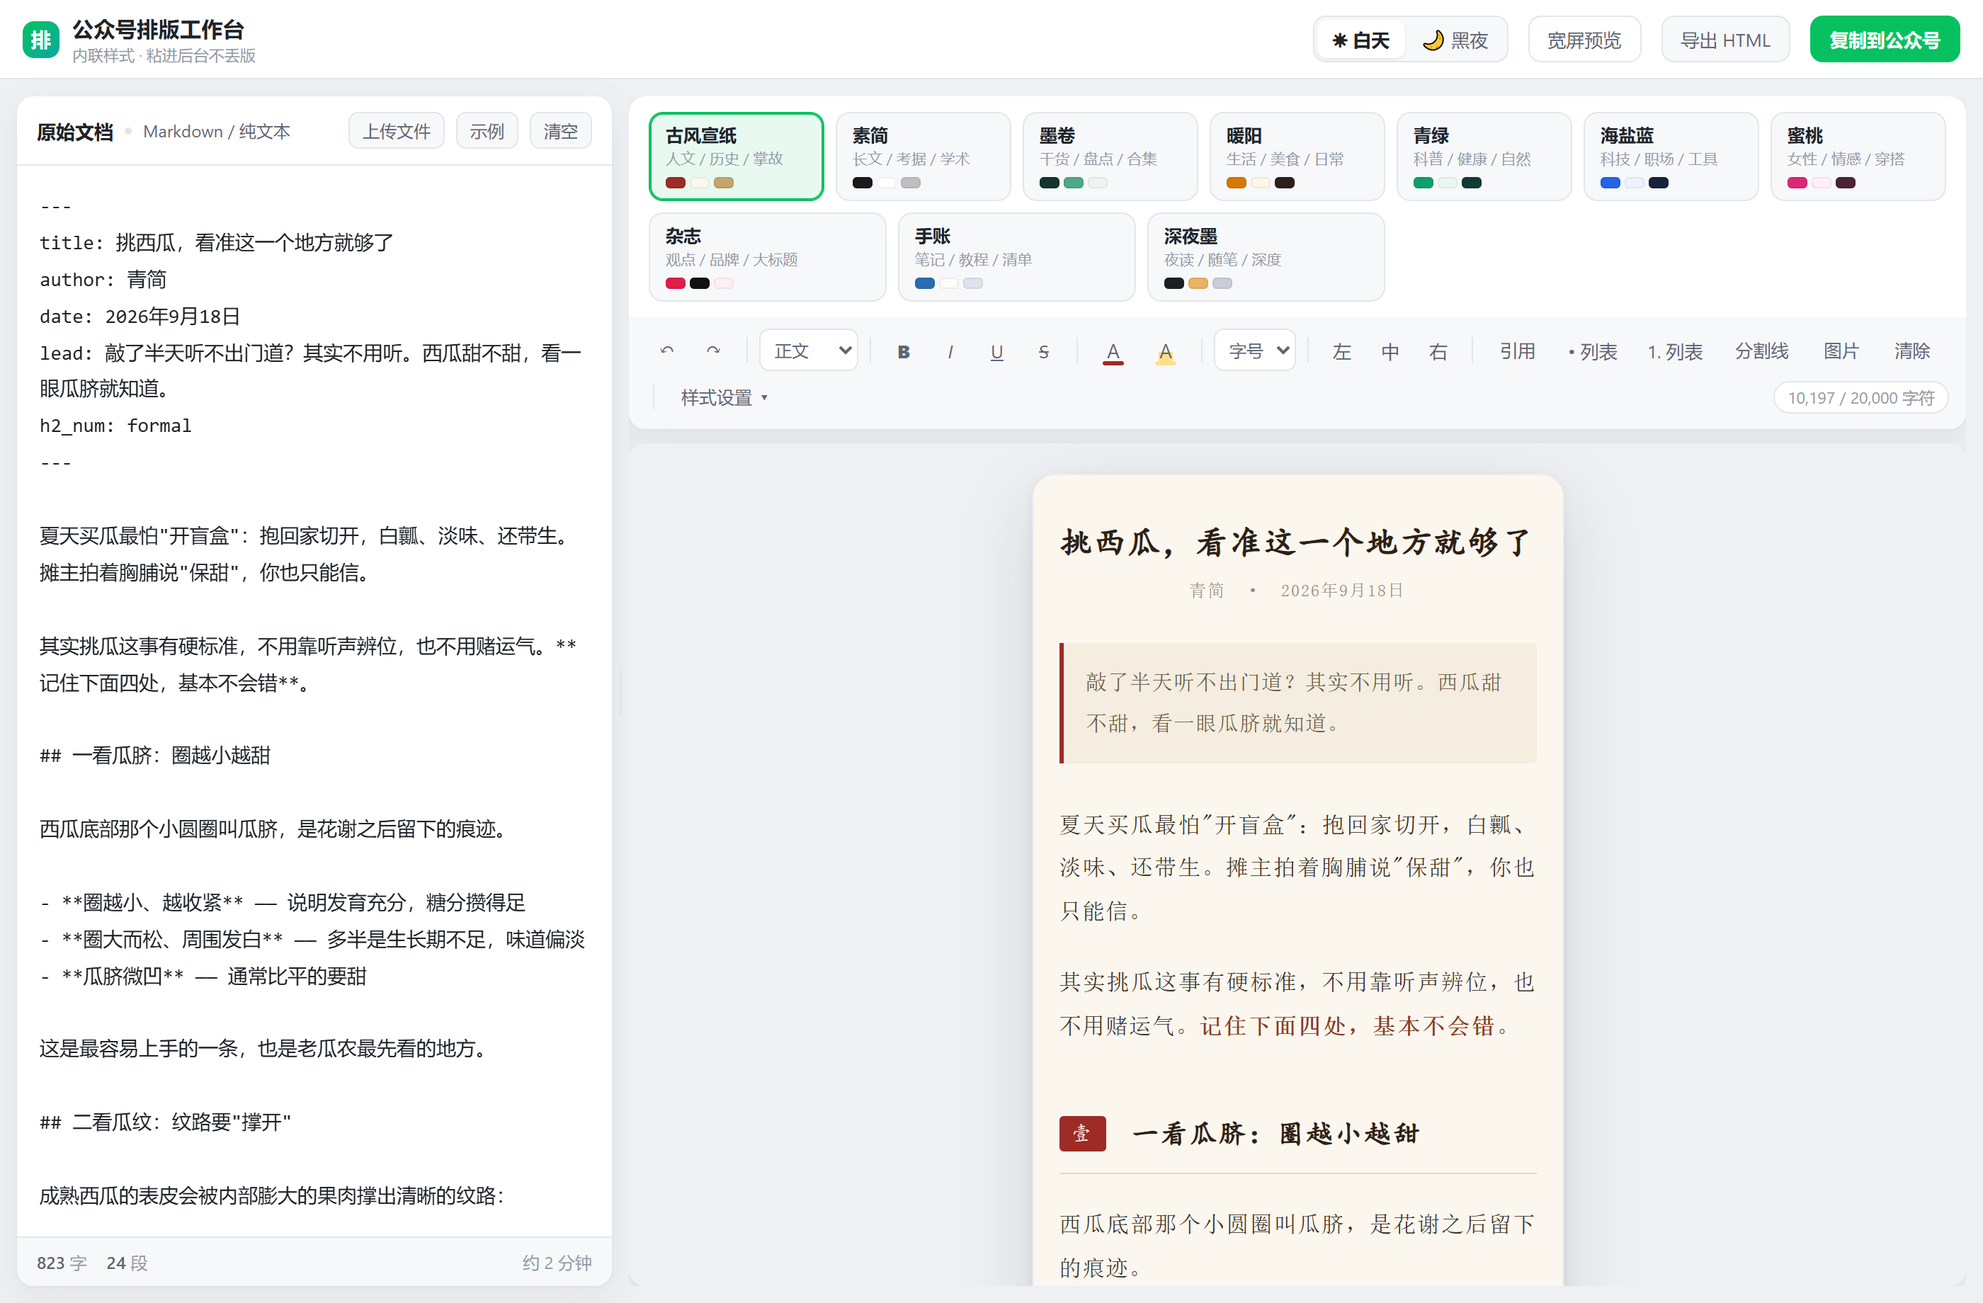
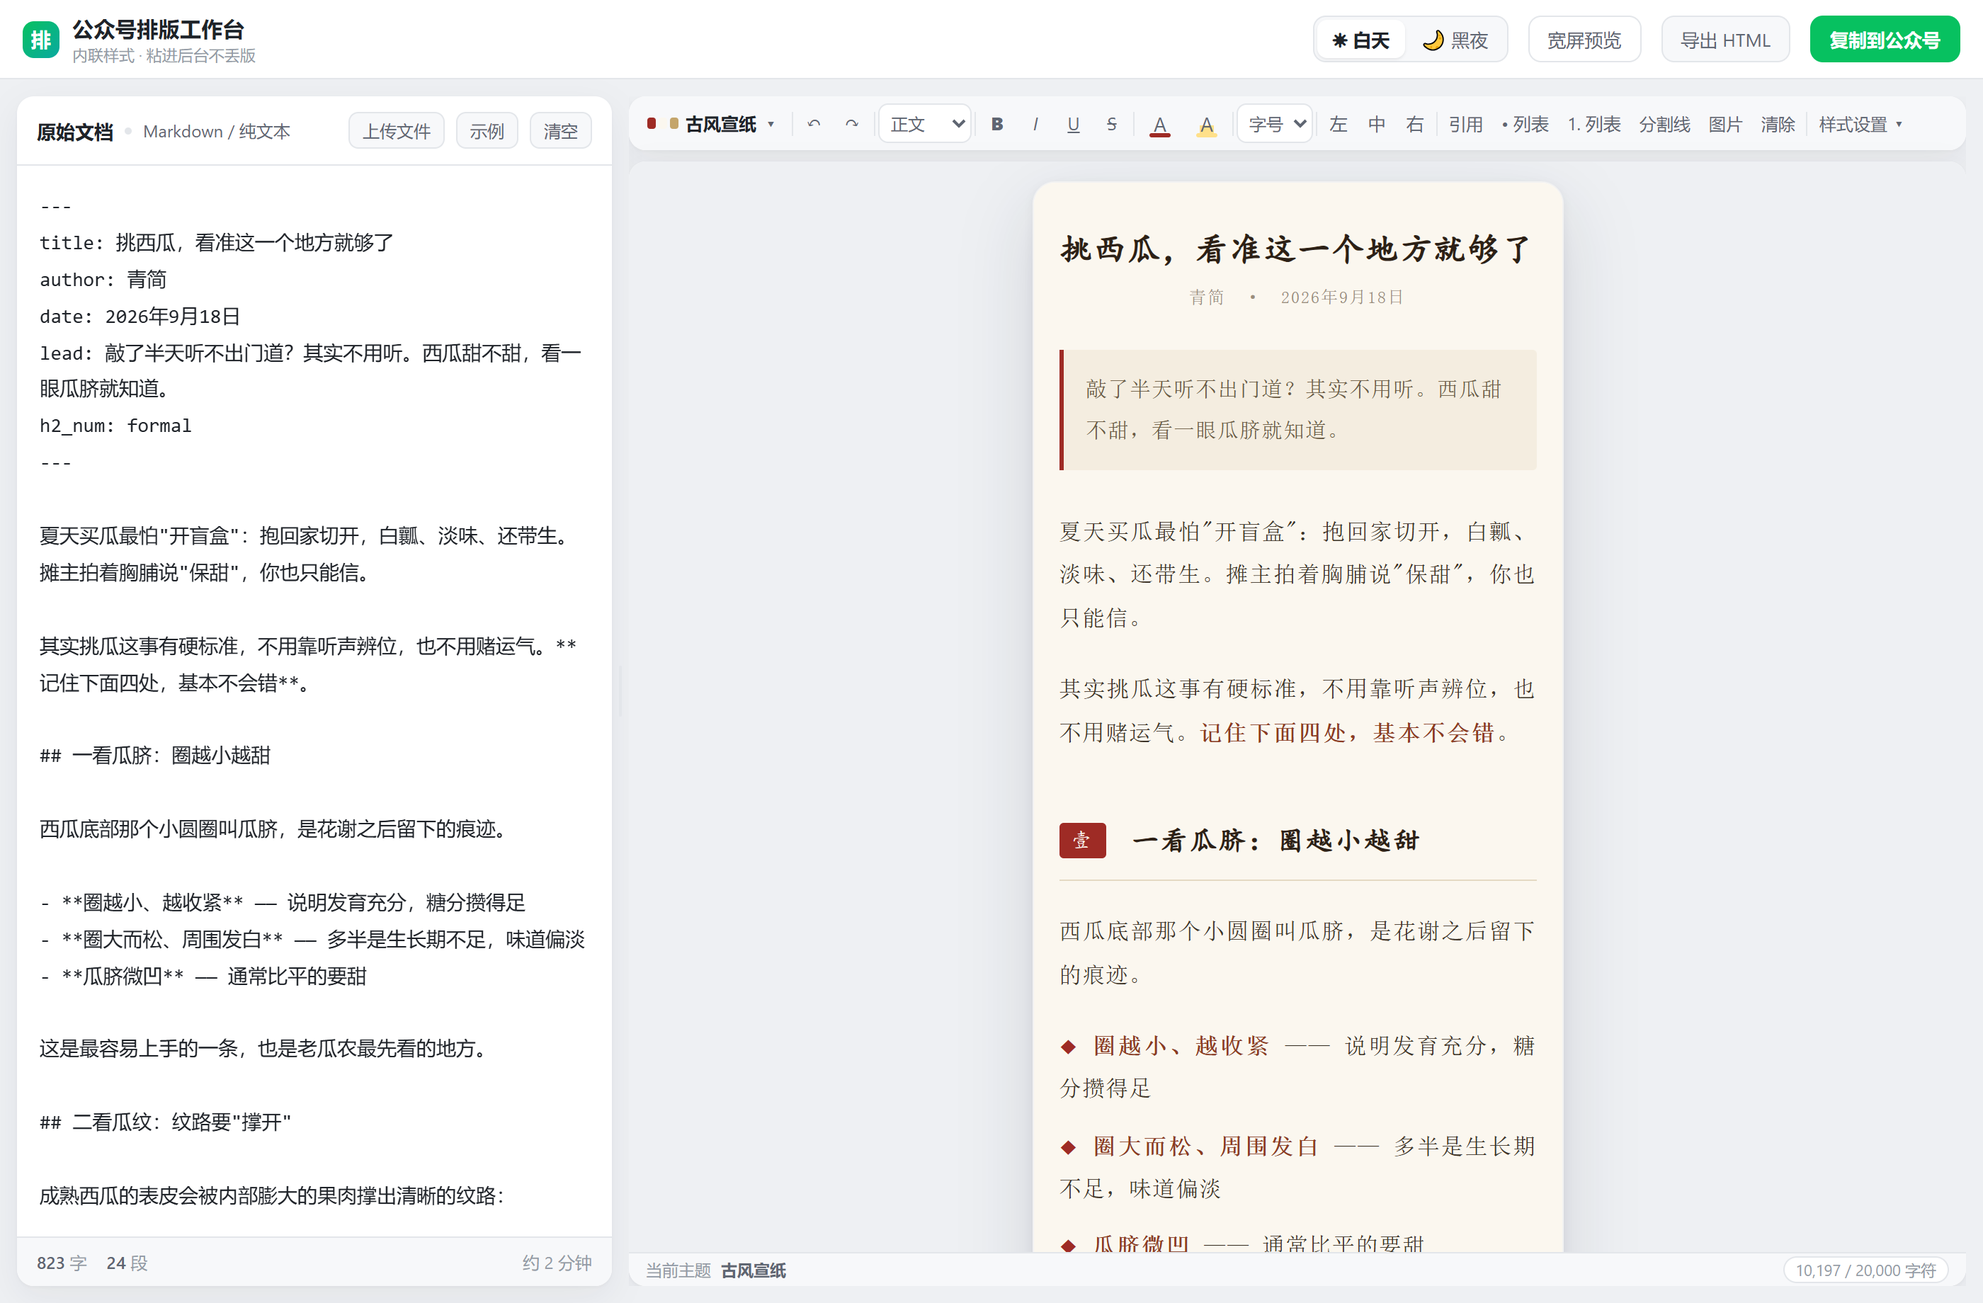
refactor(layout): 预览区上方区域瘦身，主题改成浮层
右栏上半部分原本被「10 个主题常驻铺开（两行 156px）+ 两行工具条」占掉
235px，预览区只剩 575px。改成：

- 主题选择收进工具条最左侧的按钮（带当前主题三色色标），点开是浮层，
  选完自动收起；浮层不参与布局，展开时工具区高度不变
- 字符预算从工具条挪到右栏底部状态条，顺带显示当前主题
- 工具条压缩：按钮 30→28px、内边距与分隔线收紧、文字按钮字号 12.5→12，
  1440 宽窗口下由折两行变回单行
- 预览区内边距 22/16/44 → 14/14/30

实测预览区高度（旧 → 新）：
  1440x900  575 → 750px  (+175px, +30%)
  1280x800  475 → 621px  (+146px, +31%)
  1920x1080 859 → 930px  (+71px,  +8%)

工具区（工具条 + 状态条）在 1440 宽下只占 62px，此前为 235px。

新增 7 项断言（合计 77 项，两份脚本各跑一次全通过）：主题条已从常驻布局
移除、弹层默认收起且展开不改变布局高度、10 项全部可见不省略不滚动、完整
落在视口内、Esc 可关闭、工具区高度 ≤ 100px、预览区占右栏 ≥ 83%。

diff --git a/index.html b/index.html
@@ -96,38 +96,54 @@ html[data-app="dark"] .seg button.on{background:#343943;box-shadow:none;}
 .dot{width:5px;height:5px;border-radius:50%;background:var(--line);}
 
 /* ---------- 右栏 ---------- */
-.pane-out{display:flex;flex-direction:column;gap:10px;min-height:0;}
+.pane-out{display:flex;flex-direction:column;gap:8px;min-height:0;}
 .out-card{background:var(--panel);border-radius:var(--radius);box-shadow:var(--shadow);overflow:hidden;flex:0 0 auto;}
 .out-body{flex:1;min-height:0;display:flex;flex-direction:column;background:var(--panel);border-radius:var(--radius);box-shadow:var(--shadow);overflow:hidden;}
 
-/* 主题条 */
-.theme-strip{display:flex;flex-wrap:wrap;gap:8px;padding:11px 14px;}
-.tchip{
-  flex:1 1 104px;max-width:168px;border:1px solid var(--line);border-radius:10px;padding:7px 11px 8px;
-  background:var(--panel2);text-align:left;transition:.15s;
+/* 主题选择：工具条上的按钮 + 弹出面板。
+   10 个主题若常驻铺开要占两行高度，把预览区挤得很小，所以改成按需展开。 */
+.tb.tbtn{gap:5px;padding:0 6px;max-width:170px;}
+.tb.tbtn .tdots{display:inline-flex;gap:2px;flex:0 0 auto;}
+.tb.tbtn .tdots i{width:6px;height:8px;border-radius:2px;display:block;}
+.tb.tbtn .tname{
+  font-size:12.5px;font-weight:600;color:var(--text);
+  overflow:hidden;text-overflow:ellipsis;white-space:nowrap;
 }
-.tchip:hover{border-color:var(--text3);}
-.tchip.on{border-color:var(--brand);background:var(--brand-soft);box-shadow:inset 0 0 0 1px var(--brand);}
-html[data-app="dark"] .tchip.on{background:#12291d;}
-.tchip .nm{font-size:12.5px;font-weight:600;color:var(--text);white-space:nowrap;}
-.tchip .ds{font-size:10.5px;color:var(--text3);margin-top:2px;white-space:nowrap;}
-.tchip .sw{display:flex;gap:3px;margin-top:6px;}
-.tchip .sw i{width:14px;height:8px;border-radius:3px;display:block;border:1px solid rgba(0,0,0,.06);}
+.themepop{
+  position:fixed;z-index:66;padding:10px;border-radius:12px;
+  width:398px;max-width:calc(100vw - 20px);
+  background:var(--panel);border:1px solid var(--line);
+  box-shadow:0 8px 14px rgba(16,24,40,.10), 0 20px 44px rgba(16,24,40,.20);
+  display:grid;grid-template-columns:repeat(5,1fr);gap:7px;
+}
+.themepop[hidden]{display:none;}
+html[data-app="dark"] .themepop{box-shadow:0 8px 14px rgba(0,0,0,.5), 0 20px 44px rgba(0,0,0,.6);}
+.tp-item{
+  display:flex;flex-direction:column;gap:6px;min-width:0;padding:7px 8px 8px;
+  border:1px solid var(--line);border-radius:9px;background:var(--panel2);
+  cursor:pointer;transition:.14s;text-align:left;
+}
+.tp-item:hover{border-color:var(--text3);}
+.tp-item.on{border-color:var(--brand);background:var(--brand-soft);box-shadow:inset 0 0 0 1px var(--brand);}
+html[data-app="dark"] .tp-item.on{background:#12291d;}
+.tp-dots{display:flex;gap:3px;}
+.tp-dots i{flex:1;height:9px;border-radius:3px;display:block;border:1px solid rgba(0,0,0,.06);}
+.tp-nm{font-size:12px;font-weight:600;color:var(--text);white-space:nowrap;overflow:hidden;text-overflow:ellipsis;}
 
 /* 富文本工具条 */
 .toolbar{
-  display:flex;align-items:center;gap:3px;flex-wrap:wrap;padding:8px 12px;
+  display:flex;align-items:center;gap:1px;flex-wrap:wrap;padding:5px 6px;
   border-top:1px solid var(--line);background:var(--panel2);
 }
 .pane-out .toolbar{border-top:none;}
 .tb{
-  min-width:30px;height:30px;padding:0 8px;border-radius:7px;font-size:13px;color:var(--text2);
+  min-width:26px;height:28px;padding:0 5px;border-radius:7px;font-size:12.5px;color:var(--text2);
   display:inline-flex;align-items:center;justify-content:center;transition:.12s;border:1px solid transparent;
 }
 .tb:hover{background:var(--panel);color:var(--text);border-color:var(--line);}
 .tb:active{transform:scale(.96);}
 .tb.b{font-weight:800;} .tb.i{font-style:italic;} .tb.u{text-decoration:underline;} .tb.s{text-decoration:line-through;}
-.tb.wide{padding:0 10px;font-size:12.5px;}
+.tb.wide{padding:0 5px;font-size:12px;}
 .tb.sel{background:var(--panel);border-color:var(--line);color:var(--text);}
 .budget{
   font-size:11.5px;color:var(--text3);padding:3px 9px;border-radius:20px;
@@ -137,8 +153,8 @@ html[data-app="dark"] .tchip.on{background:#12291d;}
 html[data-app="dark"] .budget.warn{background:#33270f;border-color:#5c451a;color:#e8b464;}
 .budget.over{color:#c0392b;border-color:#f0b5ae;background:#fdf0ee;}
 html[data-app="dark"] .budget.over{background:#3a1a17;border-color:#6b2b24;color:#f0857a;}
-.tsep{width:1px;height:18px;background:var(--line);margin:0 5px;flex:0 0 auto;}
-.colorwrap{position:relative;display:inline-flex;align-items:center;justify-content:center;height:30px;width:34px;border-radius:7px;cursor:pointer;color:var(--text2);}
+.tsep{width:1px;height:17px;background:var(--line);margin:0 1px;flex:0 0 auto;}
+.colorwrap{position:relative;display:inline-flex;align-items:center;justify-content:center;height:28px;width:32px;border-radius:7px;cursor:pointer;color:var(--text2);}
 .colorwrap:hover{background:var(--panel);color:var(--text);}
 .colorwrap .bar{position:absolute;bottom:4px;left:50%;transform:translateX(-50%);width:15px;height:3px;border-radius:2px;}
 /* 取色全部交给下面的自绘色板。页面里没有任何 input[type=color]：
@@ -177,7 +193,7 @@ html[data-app="dark"] .budget.over{background:#3a1a17;border-color:#6b2b24;color
 }
 .colbtn:hover{border-color:var(--text3);}
 .colbtn i{display:block;width:22px;height:14px;border-radius:4px;}
-select.mini{padding:4px 6px;border-radius:7px;border:1px solid var(--line);background:var(--panel);font-size:12px;height:30px;}
+select.mini{padding:3px 4px;border-radius:7px;border:1px solid var(--line);background:var(--panel);font-size:12px;height:28px;}
 
 /* 全局样式面板 */
 .style-panel{
@@ -193,8 +209,18 @@ select.mini{padding:4px 6px;border-radius:7px;border:1px solid var(--line);backg
 .switch{display:flex;align-items:center;gap:7px;font-size:12px;color:var(--text2);cursor:pointer;user-select:none;}
 .switch input{accent-color:var(--brand);width:15px;height:15px;}
 
+/* 右栏底部状态条：当前主题 + 字符预算。放在这里而不是工具条里，
+   免得工具条因为塞不下而多折一行。 */
+.out-foot{
+  flex:0 0 auto;display:flex;align-items:center;gap:7px;
+  padding:2px 12px;border-top:1px solid var(--line);background:var(--panel2);
+  font-size:11.5px;color:var(--text3);
+}
+.out-foot b{font-weight:600;color:var(--text2);}
+.out-foot .budget{padding:1px 8px;font-size:11px;}
+
 /* 预览区 */
-.preview-wrap{flex:1;min-height:0;overflow:auto;padding:22px 16px 44px;background:var(--bg);display:flex;justify-content:center;align-items:flex-start;}
+.preview-wrap{flex:1;min-height:0;overflow:auto;padding:14px 14px 30px;background:var(--bg);display:flex;justify-content:center;align-items:flex-start;}
 .phone{
   width:375px;flex:0 0 auto;background:#fff;border-radius:16px;
   box-shadow:0 2px 6px rgba(16,24,40,.06), 0 18px 48px rgba(16,24,40,.14);
@@ -291,9 +317,11 @@ html[data-app="dark"] .phone{box-shadow:0 2px 6px rgba(0,0,0,.4), 0 18px 48px rg
   <!-- 排版结果 -->
   <section class="pane pane-out">
     <div class="out-card">
-      <div class="theme-strip" id="themeStrip"></div>
-
       <div class="toolbar" id="rtToolbar">
+        <button class="tb tbtn" id="btnTheme" title="选择排版主题">
+          <span class="tdots" id="btnThemeDots"></span><span class="tname" id="btnThemeName">主题</span>▾
+        </button>
+        <span class="tsep"></span>
         <button class="tb" data-act="undo" title="撤销 (Ctrl+Z)">↶</button>
         <button class="tb" data-act="redo" title="重做 (Ctrl+Y)">↷</button>
         <span class="tsep"></span>
@@ -330,8 +358,6 @@ html[data-app="dark"] .phone{box-shadow:0 2px 6px rgba(0,0,0,.4), 0 18px 48px rg
         <button class="tb wide" data-act="clear" title="清除格式">清除</button>
         <span class="tsep"></span>
         <button class="tb wide" id="btnStylePanel" title="展开/收起全局样式">样式设置 ▾</button>
-        <span class="spacer" style="flex:1"></span>
-        <span class="budget" id="charBudget" title="微信 draft/add 接口的 content 上限为 20000 字符，标签与属性全部计入。复制粘贴没有这个限制。">— 字符</span>
       </div>
 
       <div class="style-panel" id="stylePanel" hidden>
@@ -376,6 +402,12 @@ html[data-app="dark"] .phone{box-shadow:0 2px 6px rgba(0,0,0,.4), 0 18px 48px rg
         <div class="phone" id="phone">
           <section id="article" contenteditable="true" spellcheck="false"></section>
         </div>
+      </div>
+      <div class="out-foot">
+        <span>当前主题</span>
+        <b id="footTheme">古风宣纸</b>
+        <span class="spacer" style="flex:1"></span>
+        <span class="budget" id="charBudget" title="微信 draft/add 接口的 content 上限为 20000 字符，标签与属性全部计入。复制粘贴没有这个限制。">— 字符</span>
       </div>
     </div>
   </section>
@@ -1392,7 +1424,7 @@ document.addEventListener('click', e=>{
   if(palette.contains(e.target) || (e.target.closest && e.target.closest('.colorwrap, #gColorBtn'))) return;
   closePalette();
 });
-document.addEventListener('keydown', e=>{ if(e.key === 'Escape') closePalette(); });
+document.addEventListener('keydown', e=>{ if(e.key === 'Escape'){ closePalette(); closeThemePop(); } });
 window.addEventListener('resize', closePalette);
 window.addEventListener('scroll', closePalette, true);
 
@@ -1426,36 +1458,72 @@ document.addEventListener('selectionchange', ()=>{
 });
 
 /* ==========================================================
-   8. 主题条 / 样式面板
+   8. 主题选择弹层 / 样式面板
    ========================================================== */
-function buildThemeStrip(){
-  const strip = $('#themeStrip');
-  strip.innerHTML = THEME_LIST.map(t=>
-    '<button class="tchip" data-id="'+t.id+'" title="'+esc(t.desc)+'">'+
-      '<div class="nm">'+esc(t.name)+'</div>'+
-      '<div class="ds">'+esc(t.desc)+'</div>'+
-      '<div class="sw">'+t.swatch.map(c=>'<i style="background:'+c+'"></i>').join('')+'</div>'+
+/* 主题改成弹层而不是常驻铺开：10 个主题铺开要占两行高度，会把预览区压扁。 */
+const themePop = document.createElement('div');
+themePop.className = 'themepop';
+themePop.hidden = true;
+document.body.appendChild(themePop);
+
+function buildThemePop(){
+  themePop.innerHTML = THEME_LIST.map(t=>
+    '<button type="button" class="tp-item" data-id="'+t.id+'" title="'+esc(t.name+' · '+t.desc)+'">'+
+      '<span class="tp-dots">'+t.swatch.map(c=>'<i style="background:'+c+'"></i>').join('')+'</span>'+
+      '<span class="tp-nm">'+esc(t.name)+'</span>'+
     '</button>').join('');
-  strip.querySelectorAll('.tchip').forEach(chip=>{
-    chip.addEventListener('click', ()=>{
-      const prev = state.theme.id;
-      selectTheme(chip.dataset.id);
-      if(prev !== chip.dataset.id){
-        syncGlobalFromTheme(true);
-        renderArticle();
-        toast('已套用「'+state.theme.name+'」主题');
-      }
-    });
-  });
+}
+function closeThemePop(){ themePop.hidden = true; }
+function openThemePop(anchor){
+  themePop.hidden = false;
+  const r = anchor.getBoundingClientRect();
+  const w = themePop.offsetWidth, h = themePop.offsetHeight;
+  themePop.style.left = Math.max(8, Math.min(r.left, innerWidth - w - 8)) + 'px';
+  let top = r.bottom + 6;
+  if(top + h > innerHeight - 8) top = Math.max(8, r.top - h - 6);
+  themePop.style.top = top + 'px';
+}
+/* 工具条按钮与底部状态条都反映当前主题 */
+function paintTheme(){
+  const t = getTheme(state.theme.id);
+  $('#btnThemeName').textContent = t.name;
+  $('#btnThemeDots').innerHTML = t.swatch.map(c=>'<i style="background:'+c+'"></i>').join('');
+  $('#btnTheme').title = '选择排版主题（当前：' + t.name + ' · ' + t.desc + '）';
+  $('#footTheme').textContent = t.name;
+  $$('.tp-item').forEach(c=>c.classList.toggle('on', c.dataset.id===state.theme.id));
 }
 function selectTheme(id){
   state.theme = buildTheme(getTheme(id).cfg);
   state.theme.id = id;
   state.theme.name = getTheme(id).name;
-  $$('#themeStrip .tchip').forEach(c=>c.classList.toggle('on', c.dataset.id===id));
+  paintTheme();
   if(state.g.size==null) syncGlobalFromTheme(false);
   save();
 }
+$('#btnTheme').addEventListener('click', e=>{
+  e.preventDefault();
+  if(themePop.hidden) openThemePop(e.currentTarget); else closeThemePop();
+});
+themePop.addEventListener('click', e=>{
+  const b = e.target.closest('.tp-item');
+  if(!b){ return; }
+  const prev = state.theme.id;
+  selectTheme(b.dataset.id);
+  closeThemePop();
+  if(prev !== b.dataset.id){
+    syncGlobalFromTheme(true);
+    renderArticle();
+    toast('已套用「'+state.theme.name+'」主题');
+  }
+});
+document.addEventListener('click', e=>{
+  if(themePop.hidden) return;
+  if(themePop.contains(e.target)) return;
+  if(e.target.closest && e.target.closest('#btnTheme')) return;
+  closeThemePop();
+});
+window.addEventListener('resize', closeThemePop);
+window.addEventListener('scroll', closeThemePop, true);
 
 /* 样式面板控件 */
 function syncGlobalFromTheme(reset){
@@ -1765,11 +1833,11 @@ function init(){
   $('#phone').classList.toggle('wide', state.wide);
   $('#btnWidth').textContent = state.wide ? '手机预览' : '宽屏预览';
 
-  buildThemeStrip();
+  buildThemePop();
   state.theme = buildTheme(getTheme(initialTheme).cfg);
   state.theme.id = initialTheme;
   state.theme.name = getTheme(initialTheme).name;
-  $$('#themeStrip .tchip').forEach(c=>c.classList.toggle('on', c.dataset.id===initialTheme));
+  paintTheme();
 
   const src = (d && d.source) ? d.source : DEMO;
   $('#source').value = src;

diff --git a/README.md b/README.md
@@ -46,7 +46,7 @@
 
 **排版**
 
-- 10 套主题，点一下整篇重排
+- 10 套主题，点一下整篇重排。主题入口是工具条最左侧的「主题」按钮（按钮上带当前主题的三色色标），点开是浮层，选完自动收起——不常驻铺开是为了把纵向空间让给预览区
 - 全局样式面板：正文字号、行间距、字间距、段间距、字体（跟主题 / 黑体 / 宋体 / 楷体 / 仿宋 / 苹方）、正文颜色、首行缩进 2 字符
 - 富文本微调：撤销 / 重做、段落格式（正文 / 小标题 / 大标题）、**加粗**、*斜体*、<u>下划线</u>、~~删除线~~、字体颜色、背景高亮、选中改字号、左中右对齐、引用块、两种列表、分割线、插图、清除格式
 - 取色用内置色板（12 色预设 + 十六进制自定义），不调用系统原生取色控件——后者在部分浏览器内核下会被渲染成占位图标，无法做样式控制
@@ -56,12 +56,13 @@
 
 - 「复制到公众号」——写入剪贴板 `text/html`，到后台正文区 Ctrl+V
 - 「导出 HTML」——拿到干净的内联样式源码，可存档或做二次处理
-- 工具栏右侧实时显示 `字符数 / 20,000` 预算（微信 `draft/add` 接口的 `content` 上限，标签属性全算；复制粘贴没有这个限制，超 80% 变黄、超限变红）
+- 预览区底部状态条实时显示 `字符数 / 20,000` 预算（微信 `draft/add` 接口的 `content` 上限，标签属性全算；复制粘贴没有这个限制，超 80% 变黄、超限变红）
 
 **界面**
 
 - 白天 / 黑夜主题切换，记忆上次选择
 - 中间分隔条可拖拽调栏宽，也有一键宽屏预览
+- 右栏纵向空间优先给预览：主题选择走浮层、字符预算放底部状态条，工具区（工具条 + 状态条）在 1440 宽窗口下只占 62px
 - 刷新后自动恢复上次导入的文稿与主题
 
 ## 10 套主题
@@ -98,7 +99,7 @@
 ## 使用流程
 
 1. 左栏粘贴文稿（或上传文件）
-2. 右上角选主题，预览立刻更新
+2. 点工具条最左侧的「主题」按钮，在浮层里选主题，预览立刻更新
 3. 需要微调就点「样式设置」或直接用工具条改
 4. 点「复制到公众号」
 5. 打开公众号后台 → 新建图文 → 光标放进正文区 → `Ctrl+V`
@@ -170,7 +171,7 @@ npm install
 npm test
 ```
 
-70 项断言，全部通过则退出码为 0；明细写到 `test/verification-report.txt`，截图写到 `test/artifacts/`。
+77 项断言，全部通过则退出码为 0；明细写到 `test/verification-report.txt`，截图写到 `test/artifacts/`。
 
 默认使用本机安装的 Google Chrome，没有 Chrome 可以改用 Edge 或指定路径：
 
@@ -186,6 +187,7 @@ PW_EXECUTABLE="C:\Program Files\Google\Chrome\Application\chrome.exe" npm test
 - 10 套主题两两配色互不相同、且切换后正文不横向溢出 375px 手机宽度
 - 剪贴板写入成功且确实带 `text/html`（否则粘到后台会丢样式）
 - **工具栏零非文字渲染**：区域内不含 `img`、不含外链背景图、不含任何原生取色控件（这是「工具栏出现裂图」的根因防线）
+- **右栏纵向空间分配**：主题弹层默认收起、展开时不占布局高度（浮层），工具区高度 ≤ 100px、预览区高度占右栏 ≥ 83%
 - 全流程无未捕获 JS 错误
 
 ## 已知边界
